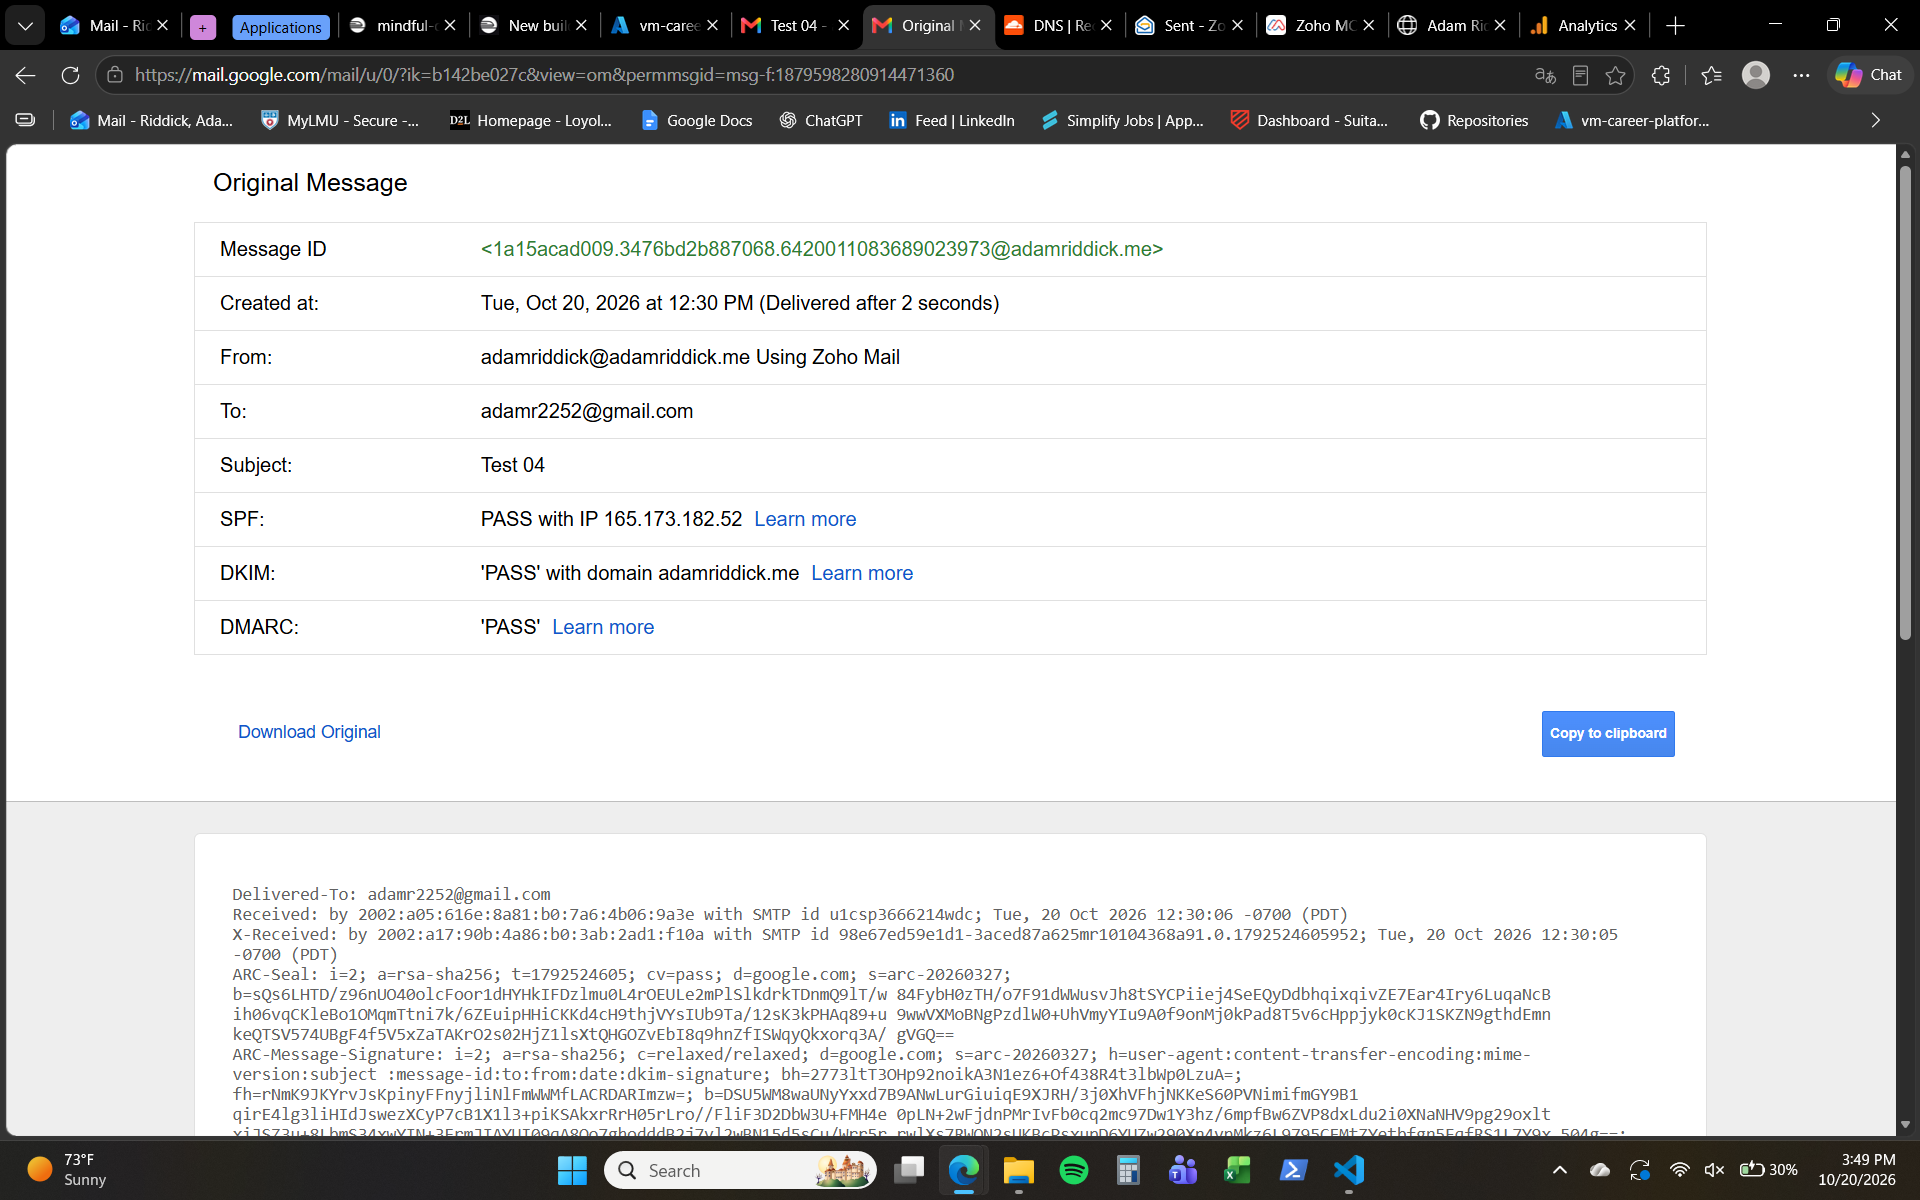
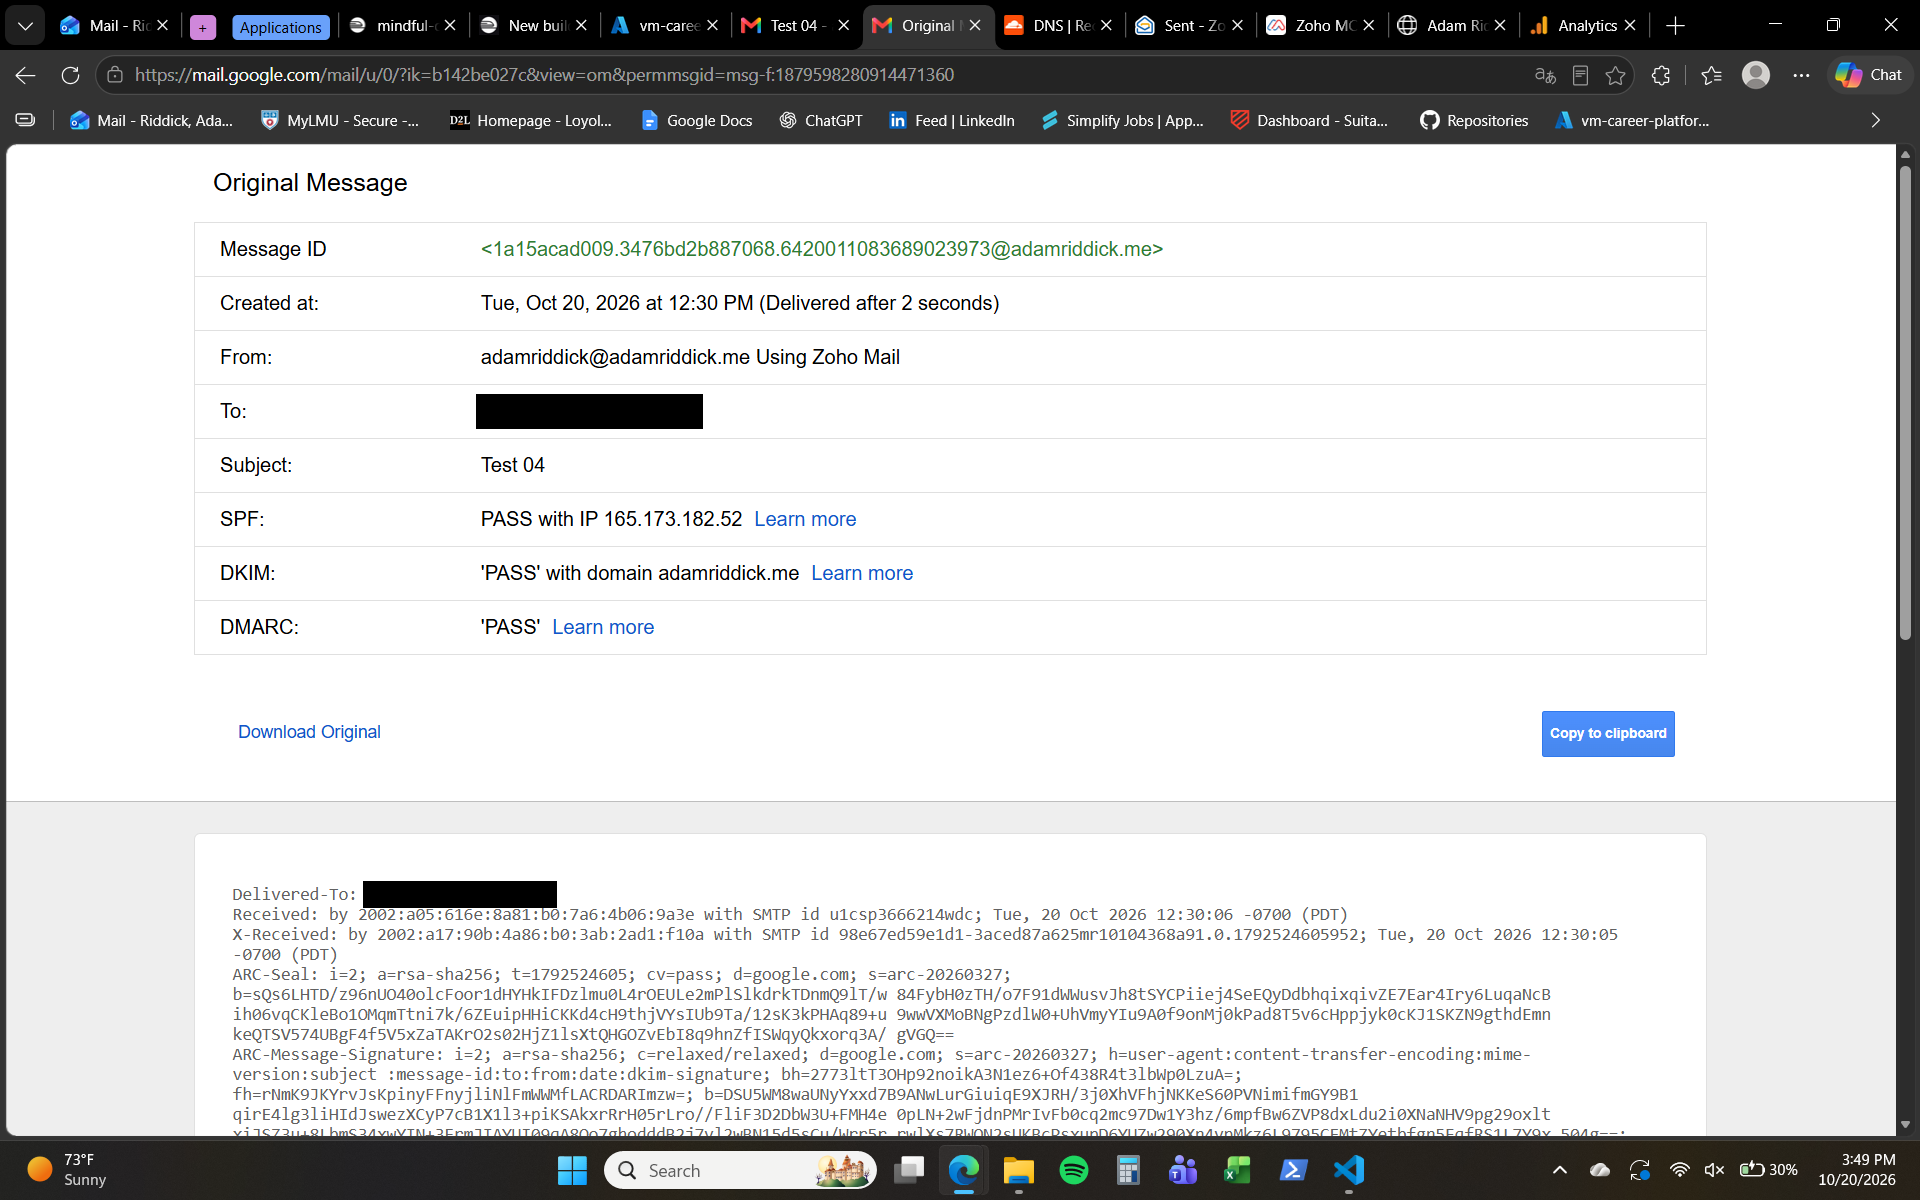
Redact personal email address; record reply thread

Changed region(s): [[0.25, 0.3083, 0.375, 0.37], [0.1875, 0.7092, 0.3125, 0.7708]]

diff --git a/docs/evidence/ex06.md b/docs/evidence/ex06.md
@@ -7,7 +7,7 @@ Times are based on the recorded Zoho Mail and Gmail observations on October 20, 
 | Test | Time (PDT) | Result |
 |---|---|---|
 | Received an incoming message from my outside Gmail mailbox | Oct 20, 2026, 12:02:53 PM | Confirmed: Zoho Inbox contains an incoming message addressed to `adamriddick@adamriddick.me` from the outside Gmail mailbox. |
-| Replied to an email and received the reply in outside Gmail | Oct 20, 2026, 3:55:10 PM (Zoho Sent time) | Gmail arrival confirmed. The available Zoho thread metadata does not establish that this reply belongs to the specific incoming message recorded in the first row. |
+| Replied to an email and received the reply in outside Gmail | Oct 22, 2026, 9:16 PM | Confirmed in one thread, `Re: (No Subject)`: my domain sent "hello world" (Oct 20, 12:02 PM), my Gmail replied "hi world" (Oct 20, 12:02 PM, received in Zoho), and I replied from Zoho with "bye world" (Oct 22, 9:16 PM), which arrived in Gmail in the same thread from `adamriddick@adamriddick.me`. Screenshots: [Zoho thread](screenshots/Reply%201.png), [Gmail thread](screenshots/Reply%202.png). An earlier reply on Oct 20, 3:55 PM also reached Gmail, but its thread was not captured. |
 | Sent a separate new message from my domain address to outside Gmail | Oct 20, 2026, 12:30:03 PM | Confirmed: the `Test 04` message from `adamriddick@adamriddick.me` arrived in Gmail. |
 
 ## SPF, DKIM, and DMARC
